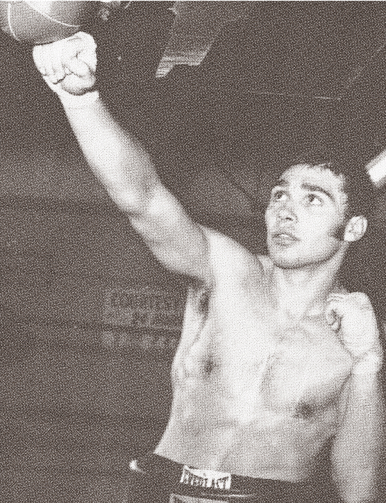
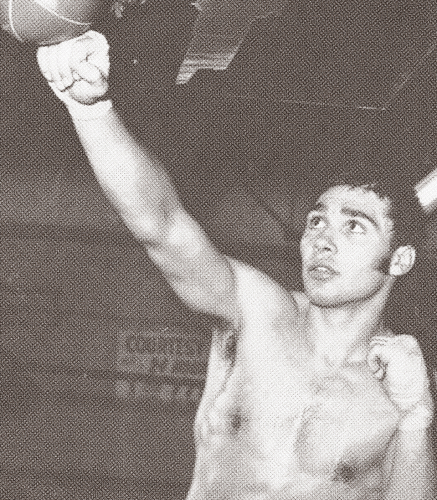
addressing peter edits - in progress

diff --git a/src/components/DefaultPage.tsx b/src/components/DefaultPage.tsx
@@ -1,4 +1,4 @@
-import type { ReactNode } from 'react';
+import { useState, type ReactNode } from 'react';
 import { Inter } from 'next/font/google';
 import Link from 'next/link';
 
@@ -11,6 +11,9 @@ import { useRouter } from 'next/router';
 import AppHero from '@/components/AppHero';
 import AppLink from '@/components/AppLink';
 import AppSection from '@/components/AppSection';
+import AppSectionHeader from '@/components/AppSectionHeader';
+import AppModal from '@/components/AppModal';
+import ContactForm from '@/components/ContactForm';
 
 const inter = Inter({ subsets: ['latin'] });
 
@@ -21,12 +24,8 @@ interface Props {
 
 export default function DefaultPage({ navItems, children }: Props) {
   const { route } = useRouter();
-  const isCreativeRoute = route.includes('creative');
 
-  const navButton = {
-    href: isCreativeRoute ? '/' : '/creative',
-    text: isCreativeRoute ? 'Flyweight Design' : `I'm a Creative`,
-  };
+  const [showContactModal, setShowContactModal] = useState(false);
 
   return (
     <>
@@ -35,55 +34,76 @@ export default function DefaultPage({ navItems, children }: Props) {
           classes={{
             outer: 'xl:min-h-[80vh]',
             inner: 'mt-40 md:mt-72 xl:mt-[20vw]',
+            image: 'w-1/3',
           }}
           image={{
             src: '/images/boxer_1.jpg',
             alt: 'Boxer',
-            width: 386,
-            height: 503,
+            fill: true,
           }}
+          aspectRatio="114.4%"
         >
-          <span dangerouslySetInnerHTML={{ __html: defaultData.header_hero.blurb }} />
+          <span
+            dangerouslySetInnerHTML={{ __html: defaultData.header_hero.blurb }}
+            className="relative -top-32 w-3/4 sm:w-80 md:w-96 xl:w-[41.5rem]"
+          />
         </AppHero>
 
         <main>
           <div className="pad-global space-y-28 xl:space-y-40">{children}</div>
         </main>
 
-        <AppSection
-          headerClass="pad-global"
-          navItem={{ id: 'contact_us', text: ['Contact Us'] }}
-        >
-          {() => (
-            <AppHero
-              image={{
-                src: '/images/phone_1.jpg',
-                alt: 'Phone',
-                width: 324,
-                height: 324,
-              }}
-            >
-              <span className="flex flex-col items-start">
-                <AppLink href="mailto:peter@flyweight.xyz">Email</AppLink>
-                <AppLink href="https://www.instagram.com/explore/tags/flyweight/">
-                  Instagram
-                </AppLink>
-                <AppLink href="https://www.linkedin.com">LinkedIn</AppLink>
-              </span>
-            </AppHero>
+        <AppSection navItem={{ id: 'contact_us', text: ['Contact Us'] }}>
+          {(isVisible, navItem) => (
+            <>
+              <AppSectionHeader
+                navItem={navItem}
+                isVisible={isVisible}
+              />
+              <AppHero
+                classes={{
+                  image: 'w-1/3 md:w-1/4 lg:w-1/5',
+                }}
+                image={{
+                  src: '/images/phone_1.jpg',
+                  alt: 'Phone',
+                  fill: true,
+                }}
+                aspectRatio="100%"
+              >
+                <span className="relative flex flex-col items-start">
+                  <AppLink href="mailto:peter@flyweight.xyz">Email</AppLink>
+                  <AppLink href="https://www.instagram.com/explore/tags/flyweight/">
+                    Instagram
+                  </AppLink>
+                  <AppLink href="https://www.linkedin.com">LinkedIn</AppLink>
+                </span>
+              </AppHero>
+            </>
           )}
         </AppSection>
       </div>
 
-      <div className="fixed -right-6 top-2 flex scale-75 gap-2 lg:right-2 lg:scale-100">
-        <button className="btn-dark">I Need Design</button>
+      <div className="pad-global fixed right-0 top-2 flex gap-2">
+        <button
+          type="button"
+          className="btn-dark"
+          onClick={() => setShowContactModal(true)}
+        >
+          I Need Design
+        </button>
         <Link
-          href={navButton.href}
+          href="/creative"
           className="btn-light"
         >
-          <span>{navButton.text}</span>
+          I&apos;m a creative
         </Link>
       </div>
+      {showContactModal && (
+        <AppModal id="contact-form">
+          <ContactForm />
+        </AppModal>
+      )}
     </>
   );
 }

diff --git a/src/components/AppHero.tsx b/src/components/AppHero.tsx
@@ -1,54 +1,75 @@
 import Image from 'next/image';
+import Link from 'next/link';
 import { ReactNode } from 'react';
 import classNames from 'classnames';
 import AppNav from '@/components/AppNav';
 
 import type { NavItem } from '@/types/navigation';
+import useActiveLink from '@/hooks/activeLink';
 
 interface Props {
   classes?: {
     outer?: string;
     inner?: string;
+    image?: string;
   };
   image?: {
     [key: string]: any;
     src: string;
     alt: string;
   };
+  aspectRatio: string;
   children: ReactNode;
   navItems?: NavItem[];
 }
 
-export default function AppHero({ classes, image, children, navItems = [] }: Props) {
-  const Title = ({ className, textClass }: { className?: string; textClass?: string }) => (
-    <h1
-      className={classNames(
-        'pointer-events-none -ml-[1.5vw] mb-14 origin-top-left font-medium leading-none tracking-tight transition-all duration-500',
-        className,
-        textClass ? textClass : 'hero-title'
-      )}
-    >
-      Flyweight
-    </h1>
-  );
+const Title = ({ className, textClass }: { className?: string; textClass?: string }) => {
+  const isActive = useActiveLink('/');
 
+  return (
+    <Link href="/">
+      <h1
+        className={classNames(
+          'pointer-events-none -ml-[1.5vw] mb-14 origin-top-left font-medium leading-none tracking-tight transition-all duration-500 hover:text-accent-blue',
+          className,
+          textClass ? textClass : 'hero-title',
+          isActive.current ? 'pointer-events-none' : 'pointer-events-auto'
+        )}
+      >
+        Flyweight
+      </h1>
+    </Link>
+  );
+};
+
+export default function AppHero({ classes, image, children, aspectRatio, navItems = [] }: Props) {
   return (
     <div className={classNames('relative', classes?.outer)}>
       <div className={classNames('pad-global', classes?.inner)}>
         <p
-          className="text-match-break relative z-10 w-3/4 leading-3 sm:w-80 md:w-96 xl:w-[41.5rem]"
+          className="text-match-break relative z-10 leading-3"
           style={{ lineHeight: 1.02 }}
         >
           {children}
         </p>
+
         <div className="z-initial relative">
           {image && (
-            <div className="w-30v absolute bottom-[15vw] right-5 w-[30vw] md:right-[15vw] 2xl:w-auto">
-              <Image
-                {...image}
-                src={image.src}
-                alt={image.alt}
-              />
+            <div
+              className={classNames(
+                'absolute right-0 top-0 -translate-y-[60%] lg:right-[145px]',
+                classes?.image
+              )}
+            >
+              <div
+                style={{ paddingBottom: aspectRatio }}
+                className="shadow-lg"
+              >
+                <Image
+                  {...image}
+                  style={{ objectFit: 'cover' }}
+                />
+              </div>
             </div>
           )}
           {navItems?.length ? (

diff --git a/src/styles/globals.css b/src/styles/globals.css
@@ -31,7 +31,7 @@
 
 @layer utilities {
   .text-match-break {
-    @apply lg:text-xl xl:text-2xl 2xl:text-3xl;
+    @apply lg:text-xl xl:text-3xl;
   }
 
   .pad-global {
@@ -45,20 +45,14 @@
 
 @layer components {
   .btn {
-    @apply px-6 py-4 border-2 border-black shadow transition duration-500 relative hover:scale-95;
-    @apply before:inset-y-0 before:absolute before:left-0 before:transition-all before:w-0 before:duration-500 hover:before:w-full before:-z-10;
-    @apply after:inset-y-0 after:absolute after:right-0 after:transition-all after:w-full after:duration-500 hover:after:w-0 after:-z-10;
+    @apply px-6 py-4 border-2 border-black shadow transition transform-gpu duration-500 relative hover:scale-95;
   }
 
-  /*.btn > span {*/
-  /*  @apply relative z-10;*/
-  /*}*/
-
   .btn-dark {
-    @apply btn text-white before:bg-white after:bg-black hover:text-black;
+    @apply btn text-white bg-black;
   }
 
   .btn-light {
-    @apply btn text-black before:bg-black after:bg-white hover:text-white;
+    @apply btn text-black bg-white;
   }
 }

diff --git a/src/components/AppCaptionImage.tsx b/src/components/AppCaptionImage.tsx
@@ -22,10 +22,15 @@ interface Props {
 export default function AppCaptionImage({ image, caption }: Props) {
   return (
     <div>
-      <Image {...image} />
+      <Image
+        {...image}
+        quality={80}
+      />
       <div className="mt-6 grid-cols-8 gap-2 lg:grid">
-        <h3 className="lg:col-span-2">{caption.title}</h3>
-        <p className="mb-4 text-base lg:col-span-2 xl:col-span-2">{caption.subtitle}</p>
+        <h3 className="lg:col-span-3 xl:col-span-2">{caption.title}</h3>
+        <p className="relative mb-4 text-center text-base lg:top-3 lg:col-span-4 lg:text-center xl:col-span-2">
+          {caption.subtitle}
+        </p>
         <p className="pr-4 text-base lg:col-span-8 xl:col-span-4">{caption.description}</p>
       </div>
     </div>

diff --git a/src/components/AppLink.tsx b/src/components/AppLink.tsx
@@ -16,8 +16,12 @@ export default function AppLink({ children, className, href, ...rest }: Props) {
       {...rest}
     >
       <>
-        {children}
-        <ArrowDownRightIcon className="relative -bottom-px h-3.5 -translate-x-full -translate-y-full transform-gpu stroke-[3px] opacity-0 transition-all group-hover:transform-none group-hover:opacity-100" />
+        <span className="transition-all group-hover:text-accent-blue">{children}</span>
+        <ArrowDownRightIcon
+          className={
+            'relative -bottom-1 h-5 -translate-x-full -translate-y-full transform-gpu stroke-[3px] opacity-0 transition-all group-hover:transform-none group-hover:text-accent-blue group-hover:opacity-100'
+          }
+        />
       </>
     </Link>
   );

diff --git a/src/components/AppModal.tsx b/src/components/AppModal.tsx
@@ -1,0 +1,22 @@
+import { type ReactNode } from 'react';
+import { createPortal } from 'react-dom';
+
+interface Props {
+  children: ReactNode;
+  node?: HTMLElement;
+  id?: string;
+}
+
+interface ContainerProps {
+  children: ReactNode;
+}
+
+const Container = ({ children }: ContainerProps) => (
+  <div className="fixed inset-0 z-50 flex place-items-center justify-center bg-white/90">
+    <div className="max-w-screen-md bg-white p-5 shadow-xl">{children}</div>
+  </div>
+);
+
+export default function AppModal({ children, id, node = document.body }: Props) {
+  return createPortal(<Container>{children}</Container>, node, id);
+}

diff --git a/src/components/AppNumGroup.tsx b/src/components/AppNumGroup.tsx
@@ -45,7 +45,7 @@ export default function AppNumGroup({ isVisible, items }: Props) {
               transitionDelay: `${300 + transitionOrder[idx] * 100}ms`,
             }}
           >
-            <p className="mb-1 text-3xl font-medium lg:mb-2 lg:text-4xl">{displayNum(idx)}</p>
+            <p className="mb-1 text-4xl font-medium lg:mb-2">{displayNum(idx)}</p>
             <p className="text-2xl lg:text-3xl">{head}</p>
           </div>
           <p

diff --git a/src/hooks/activeLink.ts b/src/hooks/activeLink.ts
@@ -1,0 +1,13 @@
+import { MutableRefObject, useRef } from 'react';
+import { usePathname } from 'next/navigation';
+
+export default function useActiveLink(routePath: string): MutableRefObject<boolean> {
+  const isActive = useRef(false);
+  const pathname = usePathname();
+
+  console.log(pathname, routePath);
+
+  isActive.current = routePath === pathname;
+
+  return isActive;
+}

diff --git a/src/components/AppColGroup.tsx b/src/components/AppColGroup.tsx
@@ -20,7 +20,7 @@ export default function AppColGroup({ isVisible, cols }: Props) {
       {cols.map(({ title, intro, items }, idx) => (
         <div
           key={idx}
-          className="lg:w-1/2"
+          className="lg:w-1/2 lg:odd:pr-10 lg:even:-ml-11"
         >
           <h3 className="mb-6">{title}</h3>
           {intro && <p className="text-base">{intro}</p>}

diff --git a/src/pages/index.tsx b/src/pages/index.tsx
@@ -59,7 +59,7 @@ export default function Home() {
 
       <AppSection
         navItem={sections[2].navItem}
-        className="constrain mx-auto border-2 border-black p-5 lg:p-16"
+        className="border-2 border-black p-5 lg:p-10"
       >
         {(isVisible, navItem) => (
           <>

diff --git a/tailwind.config.js b/tailwind.config.js
@@ -10,6 +10,10 @@ module.exports = {
       colors: {
         white: '#f8f8f8',
         black: '#0a0a0a',
+        accent: {
+          blue: '#a2bcc9',
+          pink: '#e3bfcd',
+        },
       },
       fontSize: {
         '3xl': ['2rem', 1.0625],

diff --git a/src/components/ContactForm.tsx b/src/components/ContactForm.tsx
@@ -57,7 +57,7 @@ export default function ContactForm() {
       },
     },
     {
-      el: 'email',
+      el: 'input',
       label: 'Email Address',
       props: {
         id: 'email',
